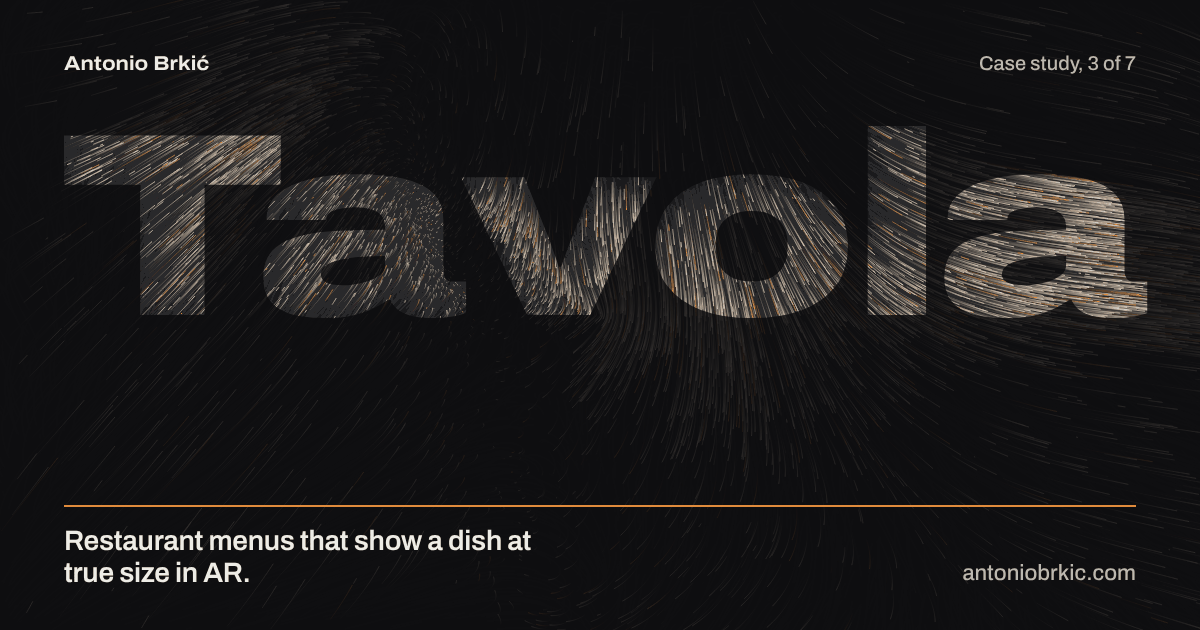
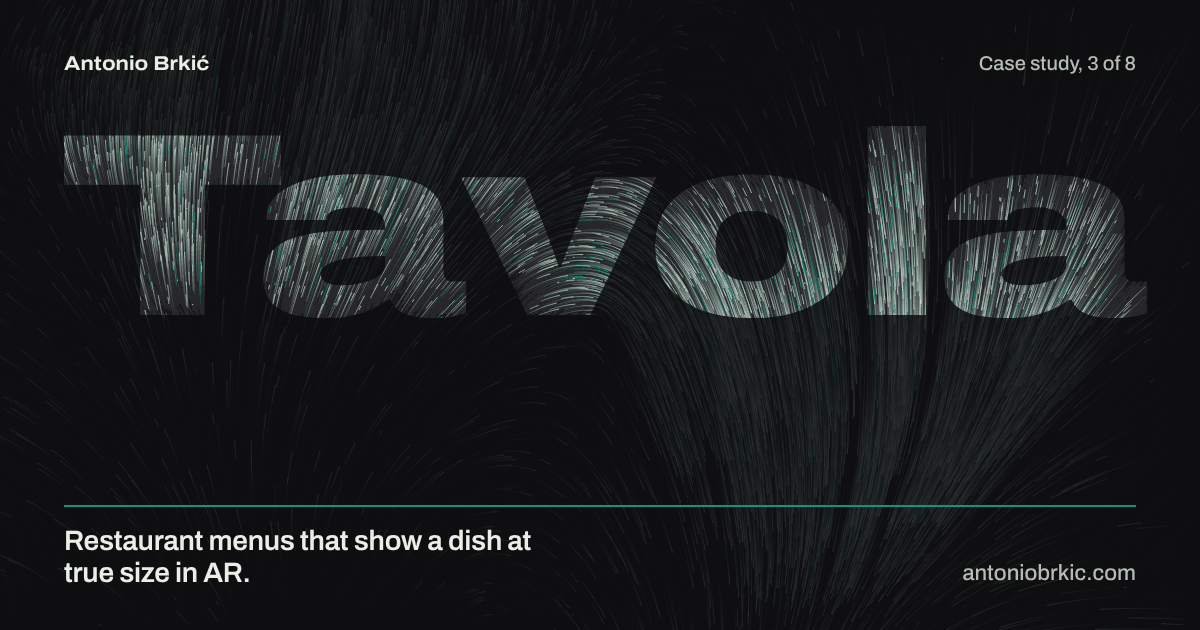
Switch Tavola's accent to its new teal
The redesigned Tavola site is teal (#0f766e). That is too dark to pass
4.5:1 on the Field ground, so the accent is the same hue a step lighter,
#14917f (4.95:1), which also stays clear of Runtime's brighter #2fb5a3.
Social card re-rendered.

Claude-Session: https://claude.ai/code/session_011gwLWLKzSjXoezc5HAmZv4

diff --git a/data/projects.ts b/data/projects.ts
@@ -81,7 +81,7 @@ export const projects: Project[] = [
     size: [2527, 1207],
     lift: false,
     sig: 'swirl',
-    accent: '#e08b3c',
+    accent: '#14917f',
     featured: true,
   },
   {
